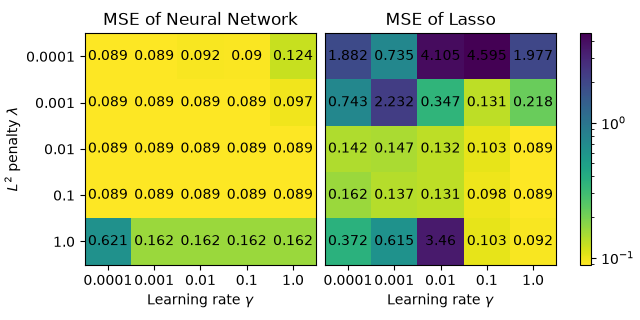
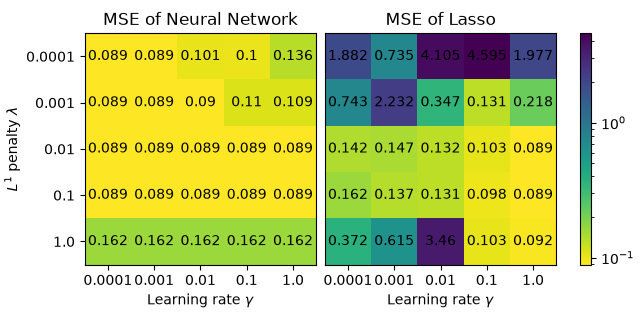
Fixed issue with plot

diff --git a/part_d/compare_lambdas_gammas.py b/part_d/compare_lambdas_gammas.py
@@ -111,7 +111,7 @@ def plot_heatmap_lasso(n, r, epochs, gammas, lambdas, title1, title2, filename, 
                 activation_ders=activation_ders,
                 cost_fun=mse,
                 cost_der=mse_der,
-                lmbd2=lmbd,
+                lmbd1=lmbd,
                 gamma=gamma,
                 epochs=epochs,
                 batch_size=10,
@@ -138,7 +138,7 @@ def plot_heatmap_lasso(n, r, epochs, gammas, lambdas, title1, title2, filename, 
             text = net_ax.text(j, i, errs_round[i, j],
                         ha="center", va="center", color="k")
     net_ax.set_xlabel("Learning rate $\\gamma$")
-    net_ax.set_ylabel("$L^2$ penalty $\\lambda$")
+    net_ax.set_ylabel("$L^1$ penalty $\\lambda$")
     net_ax.set_title(title1)
 
     lasso_ax: Axes = plt.subplot(gs[1])
